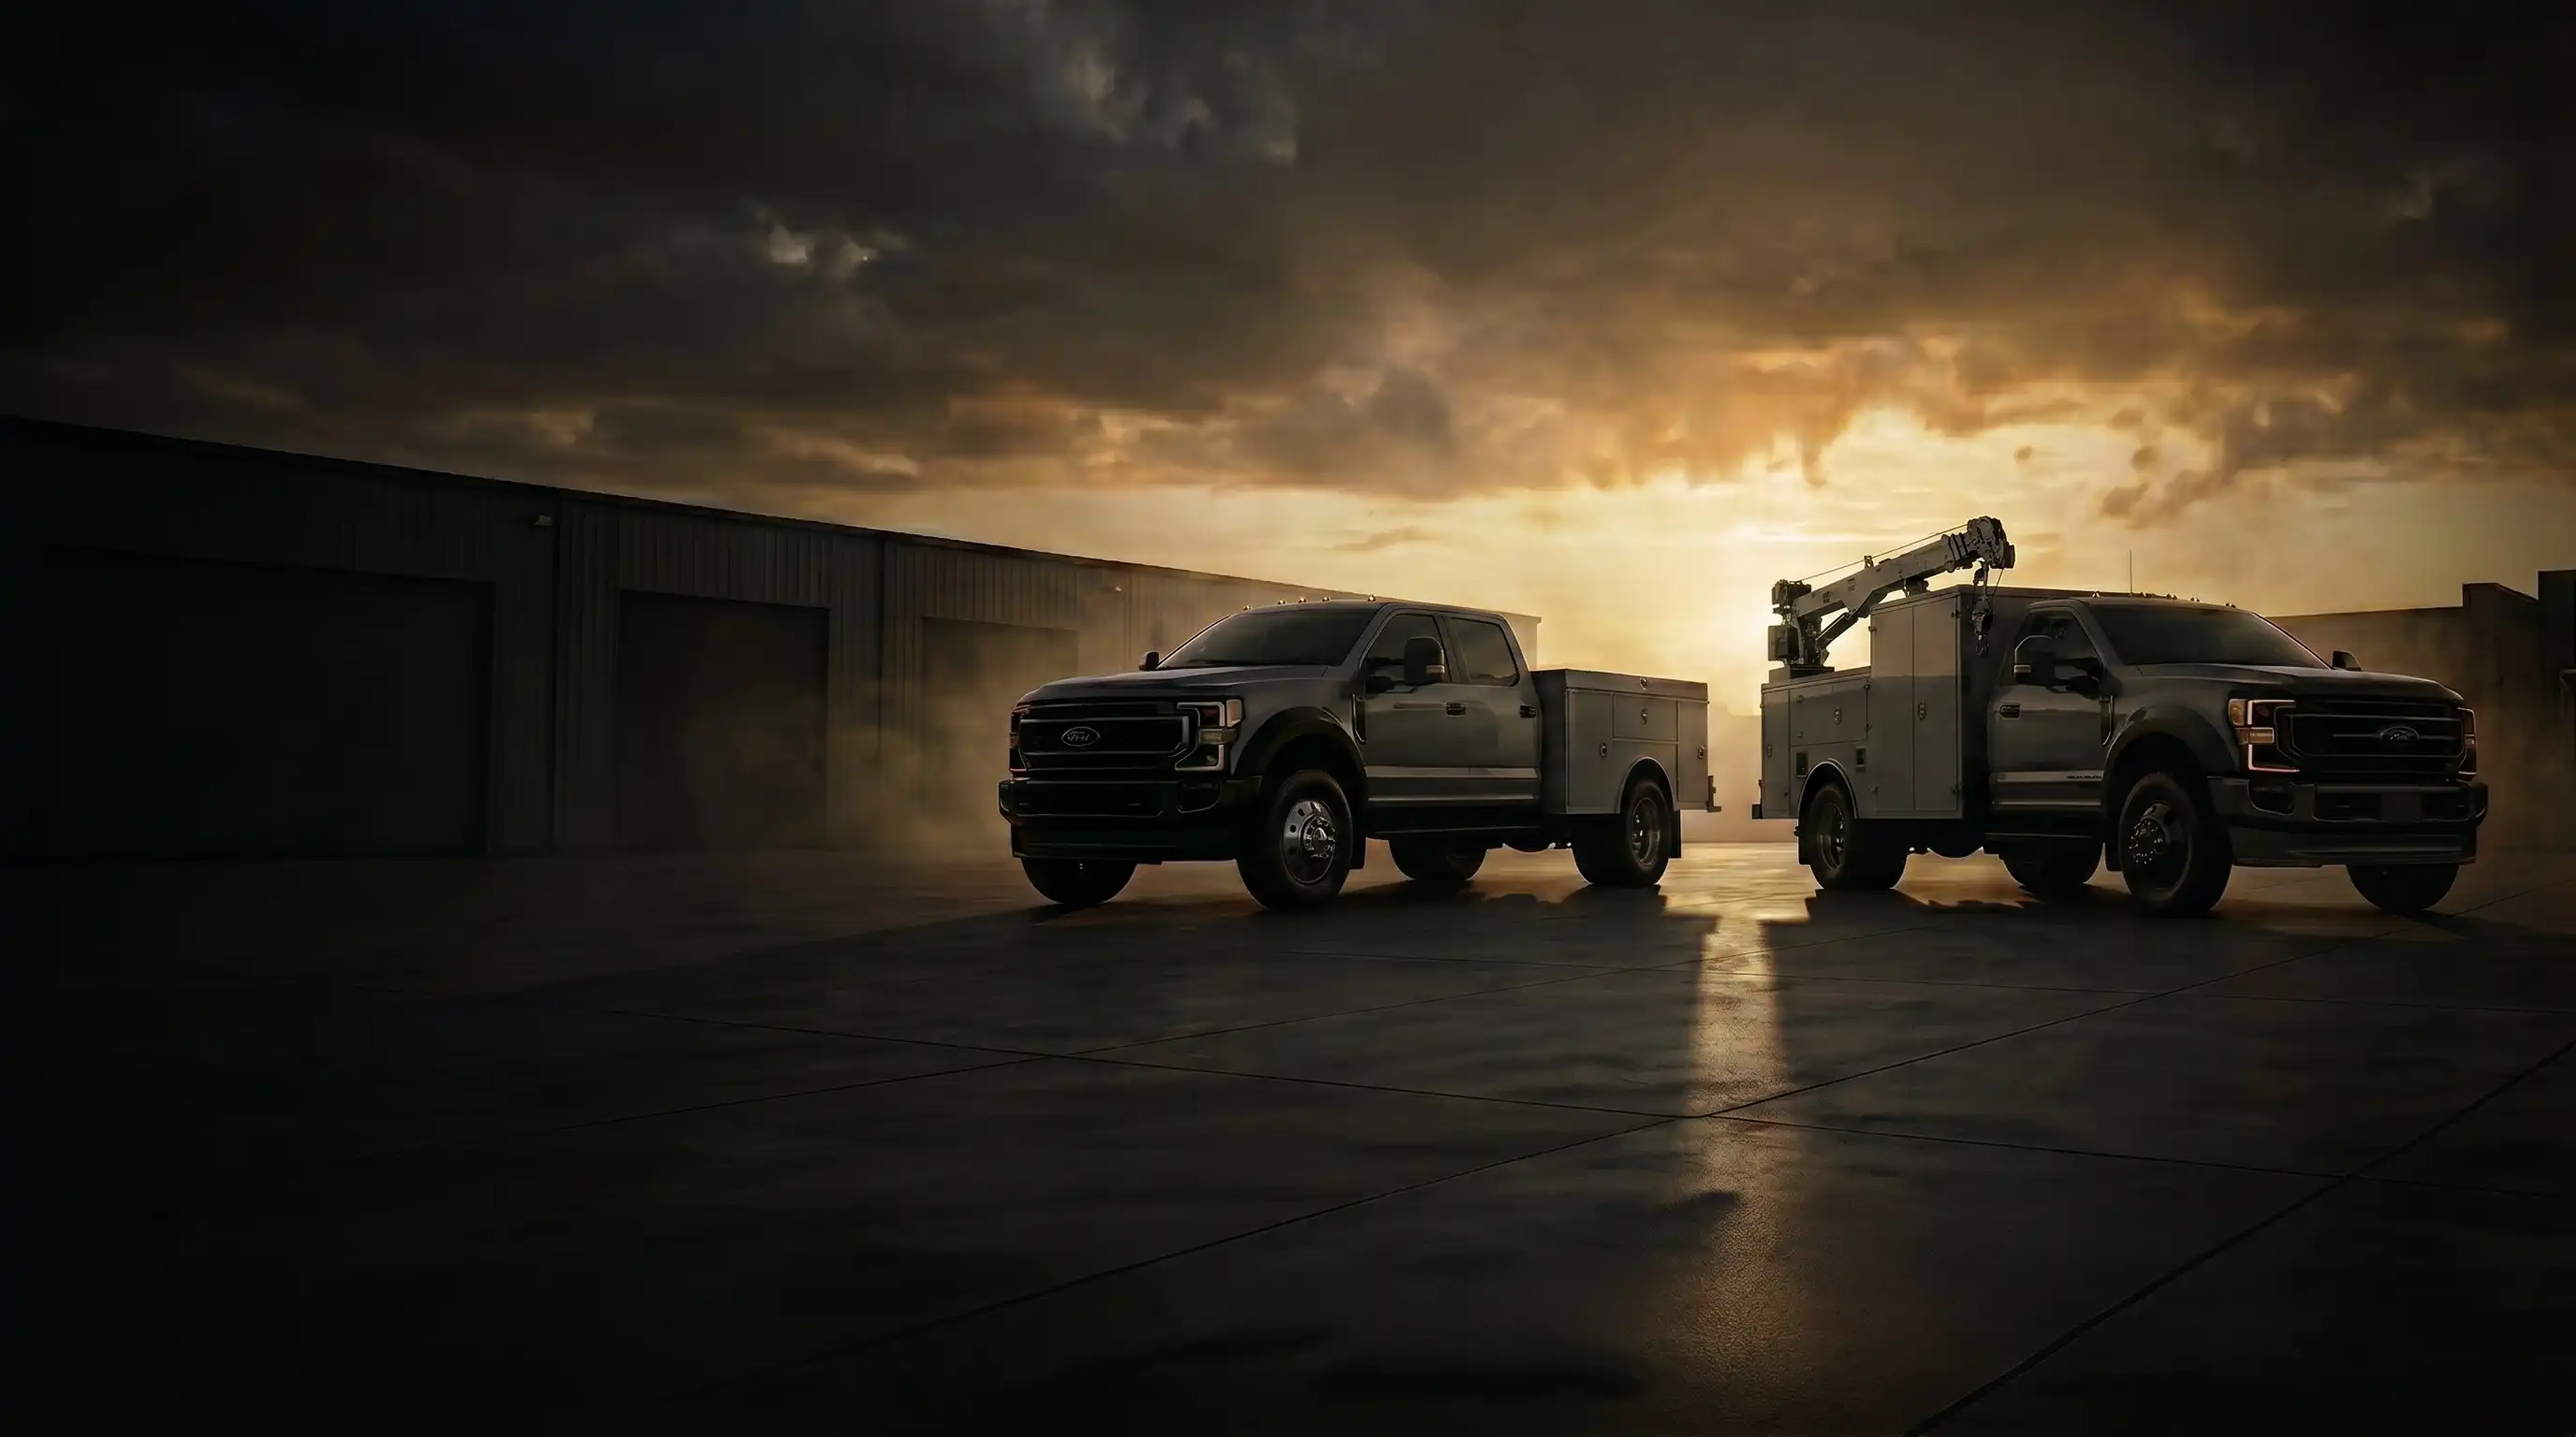
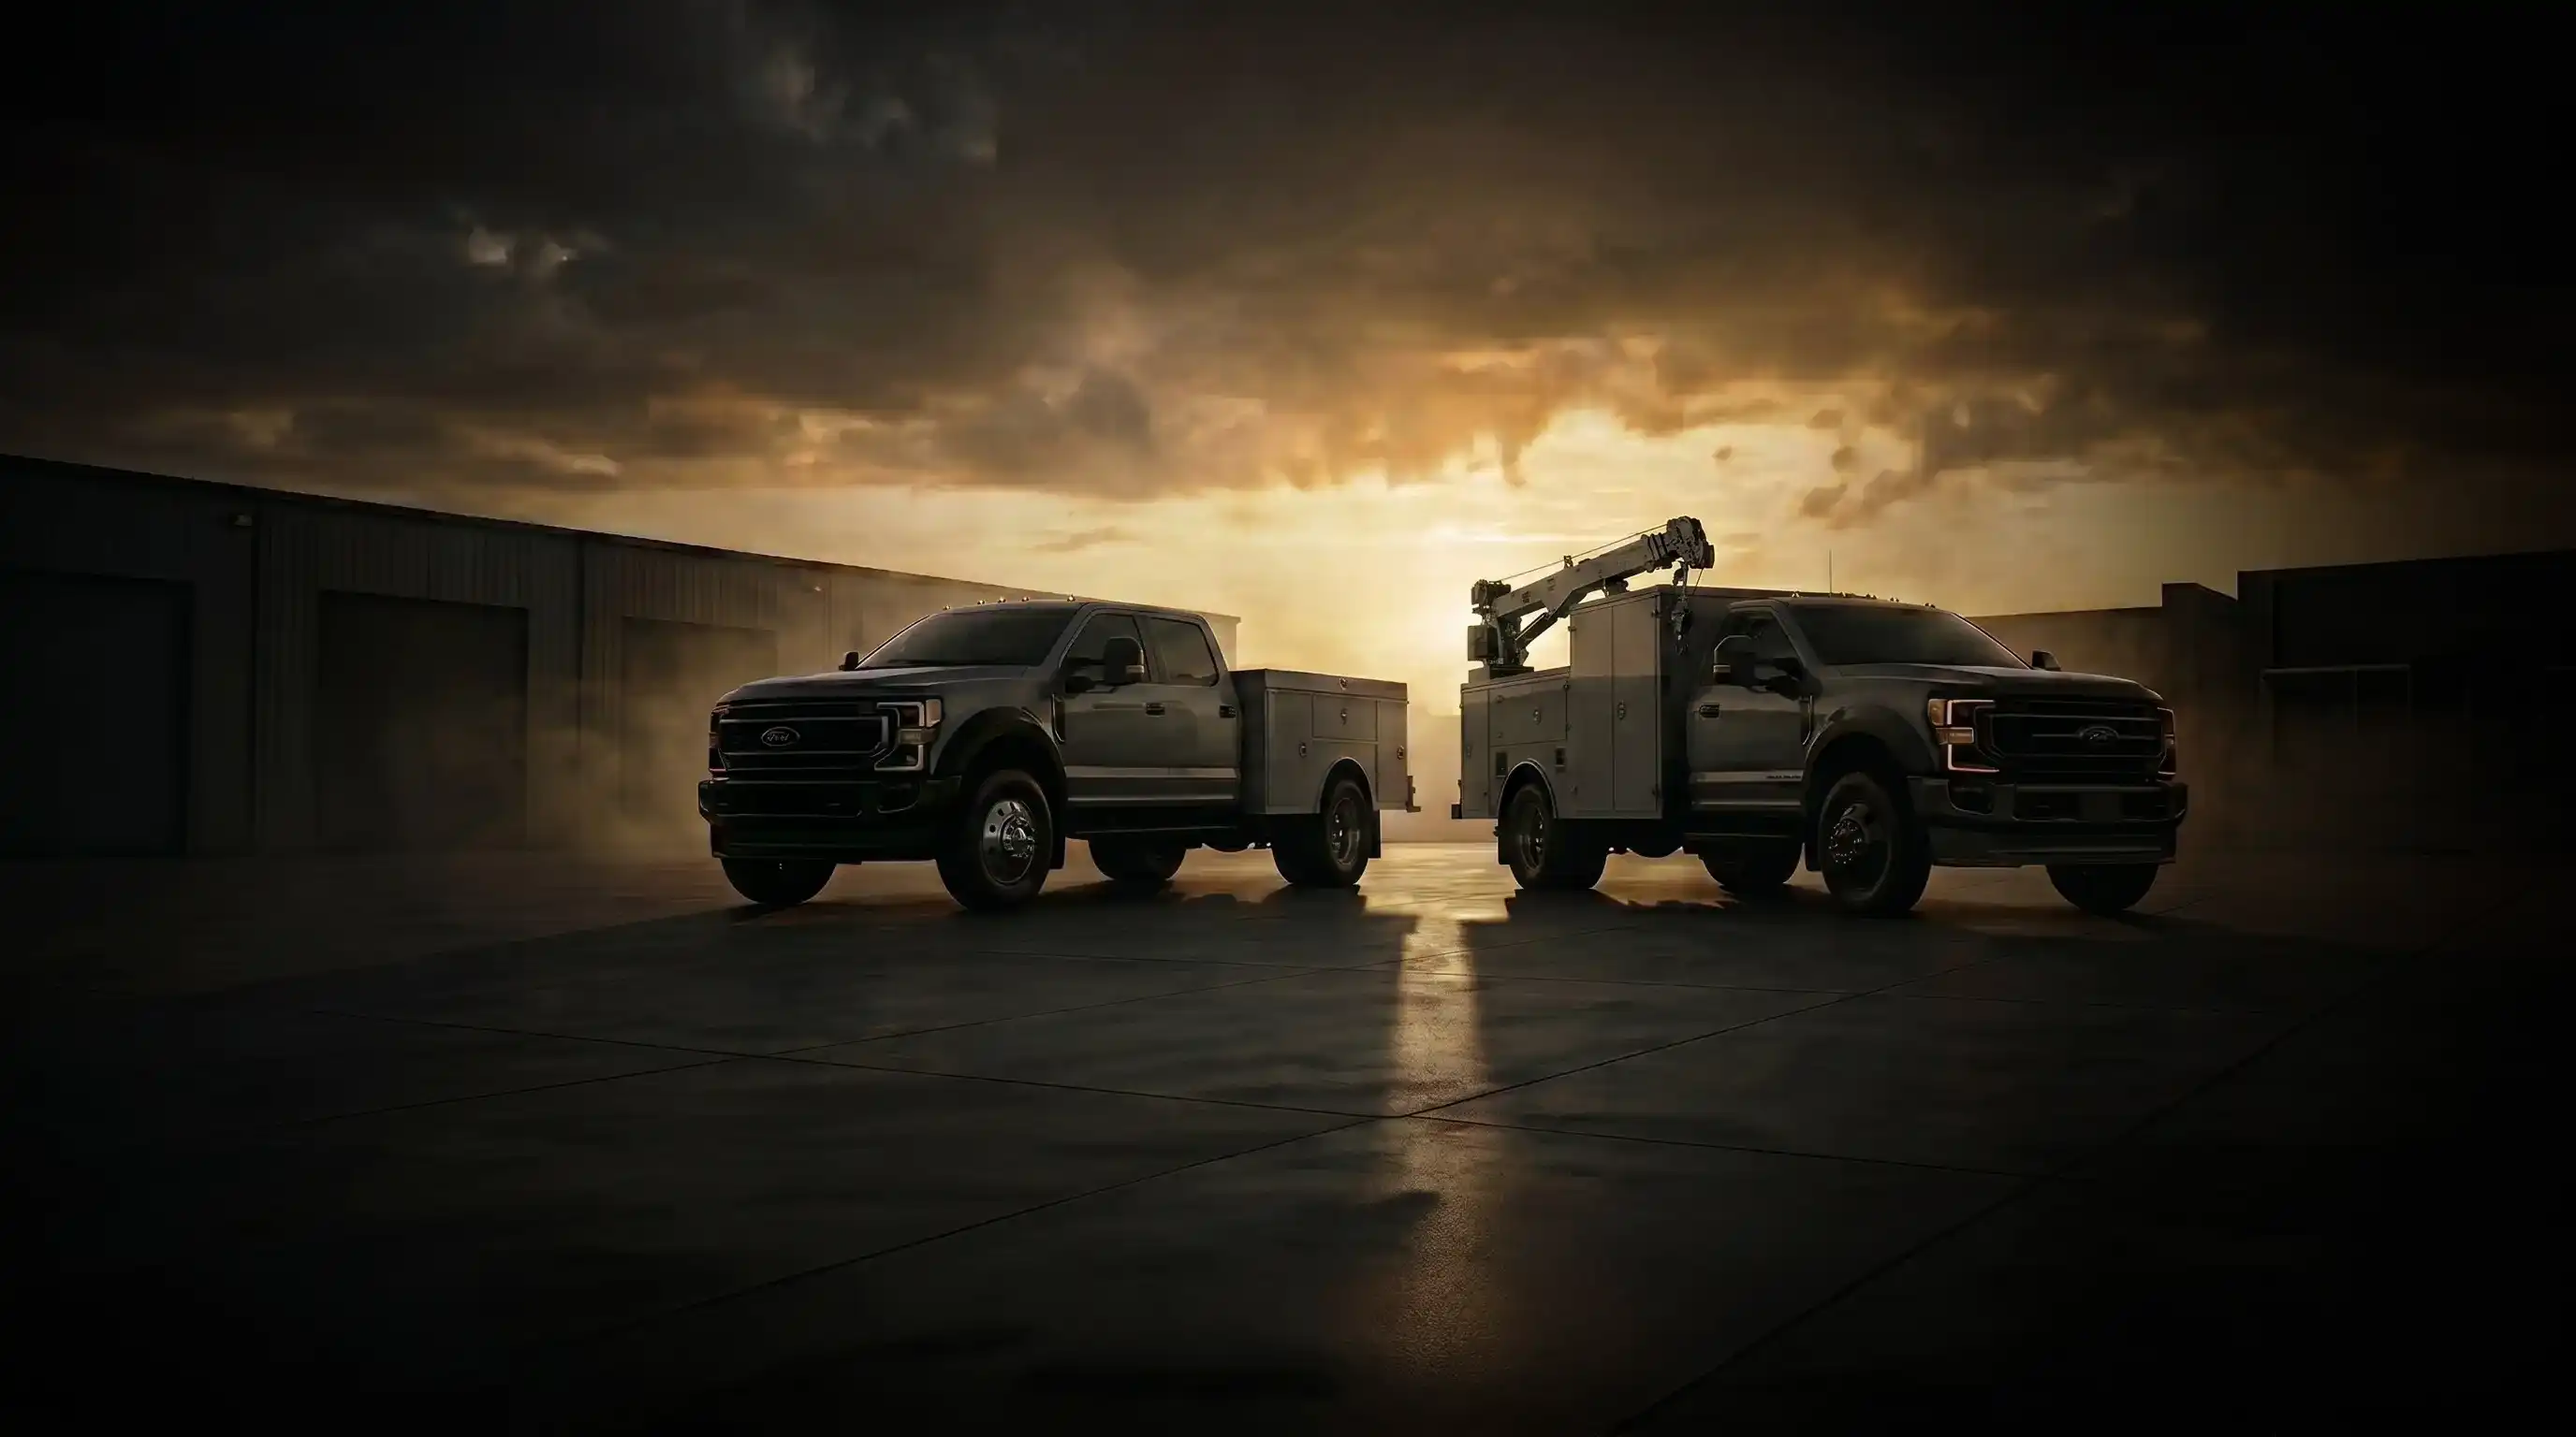
Scale up homepage hero typography and refresh background image
Eyebrow font-size 0.78rem → 1.75rem; ::before accent rule
2.5rem × 2px → 4rem × 3px to match.
Title clamp max 5.5rem → 8.5rem (min and middle unchanged).
Lead font-size 1.05rem → 1.75rem; bottom margin 2.25rem → 3.5rem.
Content padding gains 2rem left to indent off the container edge.
Hero background image (assets/images/home-hero-bg.webp) replaced
with refreshed photo.

diff --git a/assets/css/custom.css b/assets/css/custom.css
@@ -4133,7 +4133,7 @@ footer .footer-bottom {
 .hero--home .hero__content {
   width: 100%;
   max-width: 45vw;
-  padding: 6rem 0 4rem;
+  padding: 6rem 0 4rem 2rem;
 }
 
 .hero--home .hero__eyebrow {
@@ -4141,7 +4141,7 @@ footer .footer-bottom {
   align-items: center;
   gap: 0.85rem;
   margin: 0 0 1.25rem;
-  font-size: 0.78rem;
+  font-size: 1.75rem;
   font-weight: 700;
   letter-spacing: 3px;
   text-transform: uppercase;
@@ -4150,14 +4150,14 @@ footer .footer-bottom {
 .hero--home .hero__eyebrow::before {
   content: "";
   display: inline-block;
-  width: 2.5rem;
-  height: 2px;
+  width: 4rem;
+  height: 3px;
   background-color: var(--accent-color);
 }
 
 .hero--home .hero__title {
   margin: 0 0 1.75rem;
-  font-size: clamp(3rem, 6vw, 5.5rem);
+  font-size: clamp(3rem, 6vw, 8.5rem);
   font-weight: 900;
   line-height: 1.02;
   letter-spacing: -0.02em;
@@ -4173,8 +4173,8 @@ footer .footer-bottom {
 
 .hero--home .hero__lead {
   max-width: 38rem;
-  margin: 0 0 2.25rem;
-  font-size: 1.05rem;
+  margin: 0 0 3.5rem;
+  font-size: 1.75rem;
   font-weight: 300;
   line-height: 1.55;
   color: rgba(255, 255, 255, 0.78);

diff --git a/assets/scss/components/_hero-banner.scss b/assets/scss/components/_hero-banner.scss
@@ -56,7 +56,7 @@
 .hero--home .hero__content {
 	width: 100%;
 	max-width: 45vw;
-	padding: 6rem 0 4rem;
+	padding: 6rem 0 4rem 2rem;
 }
 
 // ============================================================================
@@ -69,7 +69,7 @@
 	gap: 0.85rem;
 
 	margin: 0 0 1.25rem;
-	font-size: 0.78rem;
+	font-size: 1.75rem;
 	font-weight: 700;
 	letter-spacing: 3px;
 	text-transform: uppercase;
@@ -78,8 +78,8 @@
 	&::before {
 		content: "";
 		display: inline-block;
-		width: 2.5rem;
-		height: 2px;
+		width: 4rem;
+		height: 3px;
 		background-color: var(--accent-color);
 	}
 }
@@ -90,7 +90,7 @@
 
 .hero--home .hero__title {
 	margin: 0 0 1.75rem;
-	font-size: clamp(3rem, 6vw, 5.5rem);
+	font-size: clamp(3rem, 6vw, 8.5rem);
 	font-weight: 900;
 	line-height: 1.02;
 	letter-spacing: -0.02em;
@@ -110,8 +110,8 @@
 
 .hero--home .hero__lead {
 	max-width: 38rem;
-	margin: 0 0 2.25rem;
-	font-size: 1.05rem;
+	margin: 0 0 3.5rem;
+	font-size: 1.75rem;
 	font-weight: 300;
 	line-height: 1.55;
 	color: rgba(255, 255, 255, 0.78);
